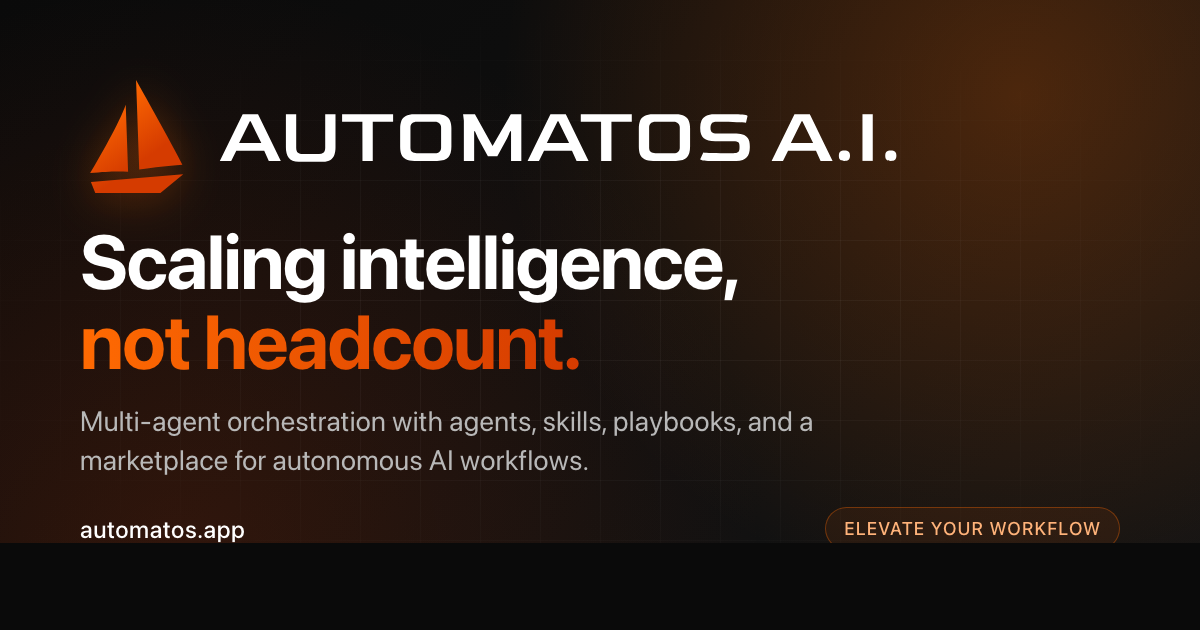
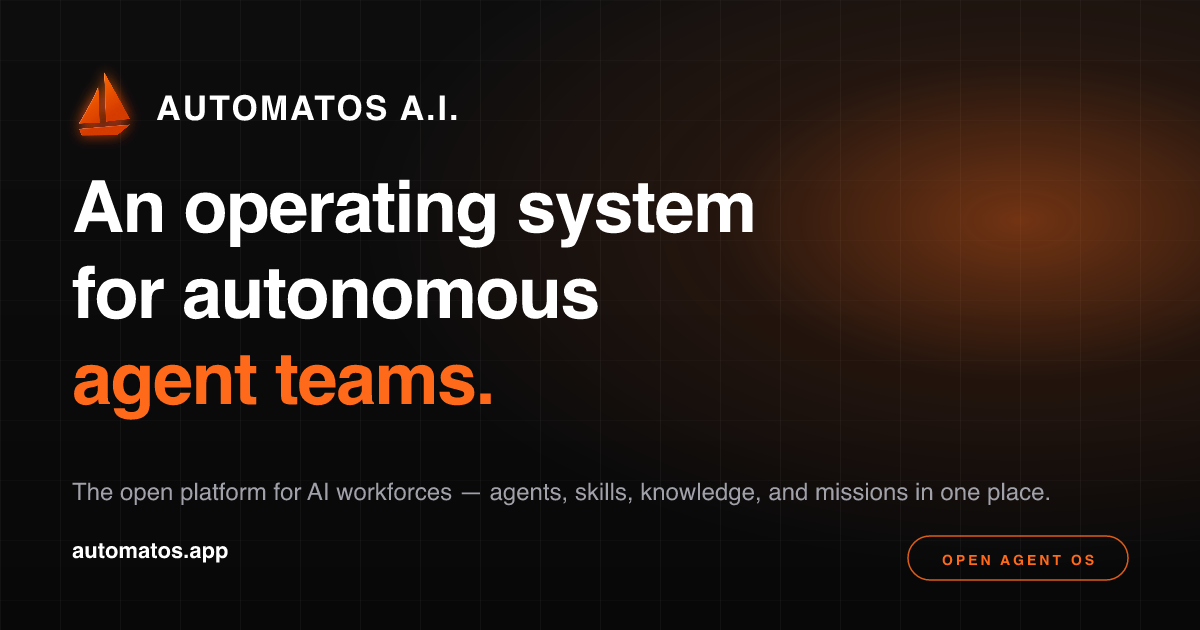
Header update

Changed region(s): [[0.0, 0.1206, 0.9558, 0.9349], [0.7092, 0.0, 1.0, 0.1508], [0.74, 0.2714, 0.9558, 0.4825]]

diff --git a/index.html b/index.html
@@ -13,10 +13,10 @@
     <meta name="viewport" content="width=device-width, initial-scale=1.0" />
     <meta name="theme-color" content="#0a0a0a" />
 
-    <title>Automatos AI | Elevate Your Workflow</title>
-    <meta name="description" content="Expert AI agency and SaaS platform for building and deploying autonomous AI agents. Scaling intelligence, not headcount — multi-agent orchestration with agents, skills, playbooks, and a marketplace." />
+    <title>Automatos AI | An Operating System for Autonomous Agent Teams</title>
+    <meta name="description" content="Automatos is the open platform for AI workforces — design specialised agents, equip them with skills and knowledge, schedule their work, and run the whole room from one command centre." />
     <meta name="author" content="Automatos AI" />
-    <meta name="keywords" content="AI agents, multi-agent orchestration, AI workforce, autonomous AI, LLM platform, AI marketplace, Composio, BYOK, EU AI Act, agent automation, AI playbooks" />
+    <meta name="keywords" content="AI agents, agent operating system, AI workforce, autonomous agents, multi-agent orchestration, open platform, agent teams, BYOK, EU AI Act, agent automation, AI playbooks" />
     <meta name="robots" content="index, follow, max-image-preview:large, max-snippet:-1, max-video-preview:-1" />
     <link rel="canonical" href="https://automatos.app/" />
 
@@ -31,20 +31,24 @@
 
     <!-- OpenGraph -->
     <meta property="og:site_name" content="Automatos AI" />
-    <meta property="og:title" content="Automatos AI | Elevate Your Workflow" />
-    <meta property="og:description" content="Expert AI agency and SaaS platform for building and deploying autonomous AI agents." />
+    <meta property="og:title" content="Automatos AI | An Operating System for Autonomous Agent Teams" />
+    <meta property="og:description" content="The open platform for AI workforces — design specialised agents, equip them with skills and knowledge, schedule their work, and run the whole room from one command centre." />
     <meta property="og:type" content="website" />
     <meta property="og:url" content="https://automatos.app/" />
-    <meta property="og:image" content="https://automatos.app/images/og-default.png?v=2" />
+    <meta property="og:image" content="https://automatos.app/images/og-default.png?v=3" />
+    <meta property="og:image:width" content="1200" />
+    <meta property="og:image:height" content="630" />
+    <meta property="og:image:alt" content="Automatos AI — an operating system for autonomous agent teams." />
     <meta property="og:locale" content="en_US" />
 
     <!-- Twitter -->
     <meta name="twitter:card" content="summary_large_image" />
     <meta name="twitter:site" content="@AutomatosAI" />
     <meta name="twitter:creator" content="@AutomatosAI" />
-    <meta name="twitter:title" content="Automatos AI | Elevate Your Workflow" />
-    <meta name="twitter:description" content="Expert AI agency and SaaS platform for building and deploying autonomous AI agents." />
-    <meta name="twitter:image" content="https://automatos.app/images/og-default.png?v=2" />
+    <meta name="twitter:title" content="Automatos AI | An Operating System for Autonomous Agent Teams" />
+    <meta name="twitter:description" content="The open platform for AI workforces — design specialised agents, equip them with skills and knowledge, schedule their work, and run the whole room from one command centre." />
+    <meta name="twitter:image" content="https://automatos.app/images/og-default.png?v=3" />
+    <meta name="twitter:image:alt" content="Automatos AI — an operating system for autonomous agent teams." />
 
     <!-- JSON-LD: Organization (sitewide, pre-hydration so LLM crawlers always see it) -->
     <script type="application/ld+json">
@@ -59,7 +63,7 @@
         "@type": "ImageObject",
         "url": "https://automatos.app/logos/automatos-ai-logo.png?v=2"
       },
-      "description": "Expert AI agency and SaaS platform for building and deploying autonomous AI agents.",
+      "description": "Automatos is the open platform for AI workforces — design specialised agents, equip them with skills and knowledge, schedule their work, and run the whole room from one command centre.",
       "foundingDate": "2025",
       "founder": {
         "@type": "Person",
@@ -89,7 +93,7 @@
       "@id": "https://automatos.app/#website",
       "url": "https://automatos.app",
       "name": "Automatos AI",
-      "description": "Expert AI agency and SaaS platform for building and deploying autonomous AI agents.",
+      "description": "Automatos is the open platform for AI workforces — design specialised agents, equip them with skills and knowledge, schedule their work, and run the whole room from one command centre.",
       "publisher": { "@id": "https://automatos.app/#organization" },
       "inLanguage": "en-US"
     }

diff --git a/src/components/sections/HeroSection.tsx b/src/components/sections/HeroSection.tsx
@@ -15,9 +15,9 @@ export const HeroSection = () => {
         >
           <div className="inline-flex items-center gap-2 bg-card border border-border rounded-full px-4 py-2 shadow-sm">
             <span className="bg-primary text-primary-foreground text-xs font-semibold px-2 py-0.5 rounded">
-              Expert
+              Open
             </span>
-            <span className="text-sm text-muted-foreground">Your AI-Powered Business OS</span>
+            <span className="text-sm text-muted-foreground">Platform for AI Workforces</span>
           </div>
         </motion.div>
 
@@ -29,10 +29,10 @@ export const HeroSection = () => {
           className="text-center mb-6"
         >
           <h1 className="text-4xl sm:text-5xl lg:text-6xl font-bold tracking-tight">
-            Run Your Business
+            An operating system for
           </h1>
           <div className="flex items-center justify-center gap-3 mt-2 flex-wrap">
-            <span className="text-4xl sm:text-5xl lg:text-6xl font-bold text-primary">[On Autopilot]</span>
+            <span className="text-4xl sm:text-5xl lg:text-6xl font-bold">autonomous</span>
             <span className="inline-flex align-middle px-1">
               <span
                 className={[
@@ -51,7 +51,7 @@ export const HeroSection = () => {
                 />
               </span>
             </span>
-            <span className="text-4xl sm:text-5xl lg:text-6xl font-bold">With AI Agents</span>
+            <span className="text-4xl sm:text-5xl lg:text-6xl font-bold text-primary">agent teams.</span>
           </div>
         </motion.div>
 
@@ -62,7 +62,7 @@ export const HeroSection = () => {
           transition={{ duration: 0.5, delay: 0.2 }}
           className="text-center text-muted-foreground text-lg max-w-2xl mx-auto mb-10"
         >
-          Launch missions, deploy playbooks, and let AI agents handle the work. From solo tasks to multi-agent operations, Automatos is the operating system for your AI workforce.
+          Automatos is the open platform for AI workforces — design specialised agents, equip them with skills and knowledge, schedule their work, and run the whole room from one command centre.
         </motion.p>
 
         {/* CTA Buttons */}

diff --git a/src/lib/seo/site.ts b/src/lib/seo/site.ts
@@ -6,13 +6,13 @@
 export const SITE = {
   url: "https://automatos.app",
   name: "Automatos AI",
-  tagline: "Scaling Intelligence, Not Headcount",
+  tagline: "An Operating System for Autonomous Agent Teams",
   description:
-    "Expert AI agency and SaaS platform for building and deploying autonomous AI agents. Multi-agent orchestration with agents, skills, playbooks, and a marketplace to run business operations end-to-end.",
-  defaultTitle: "Automatos AI | Elevate Your Workflow",
+    "Automatos is the open platform for AI workforces — design specialised agents, equip them with skills and knowledge, schedule their work, and run the whole room from one command centre.",
+  defaultTitle: "Automatos AI | An Operating System for Autonomous Agent Teams",
   titleTemplate: "%s | Automatos AI",
   logo: "https://automatos.app/logos/automatos-ai-logo.png?v=2",
-  ogImage: "https://automatos.app/images/og-default.png?v=2",
+  ogImage: "https://automatos.app/images/og-default.png?v=3",
   themeColor: "#0a0a0a",
   locale: "en_US",
 
